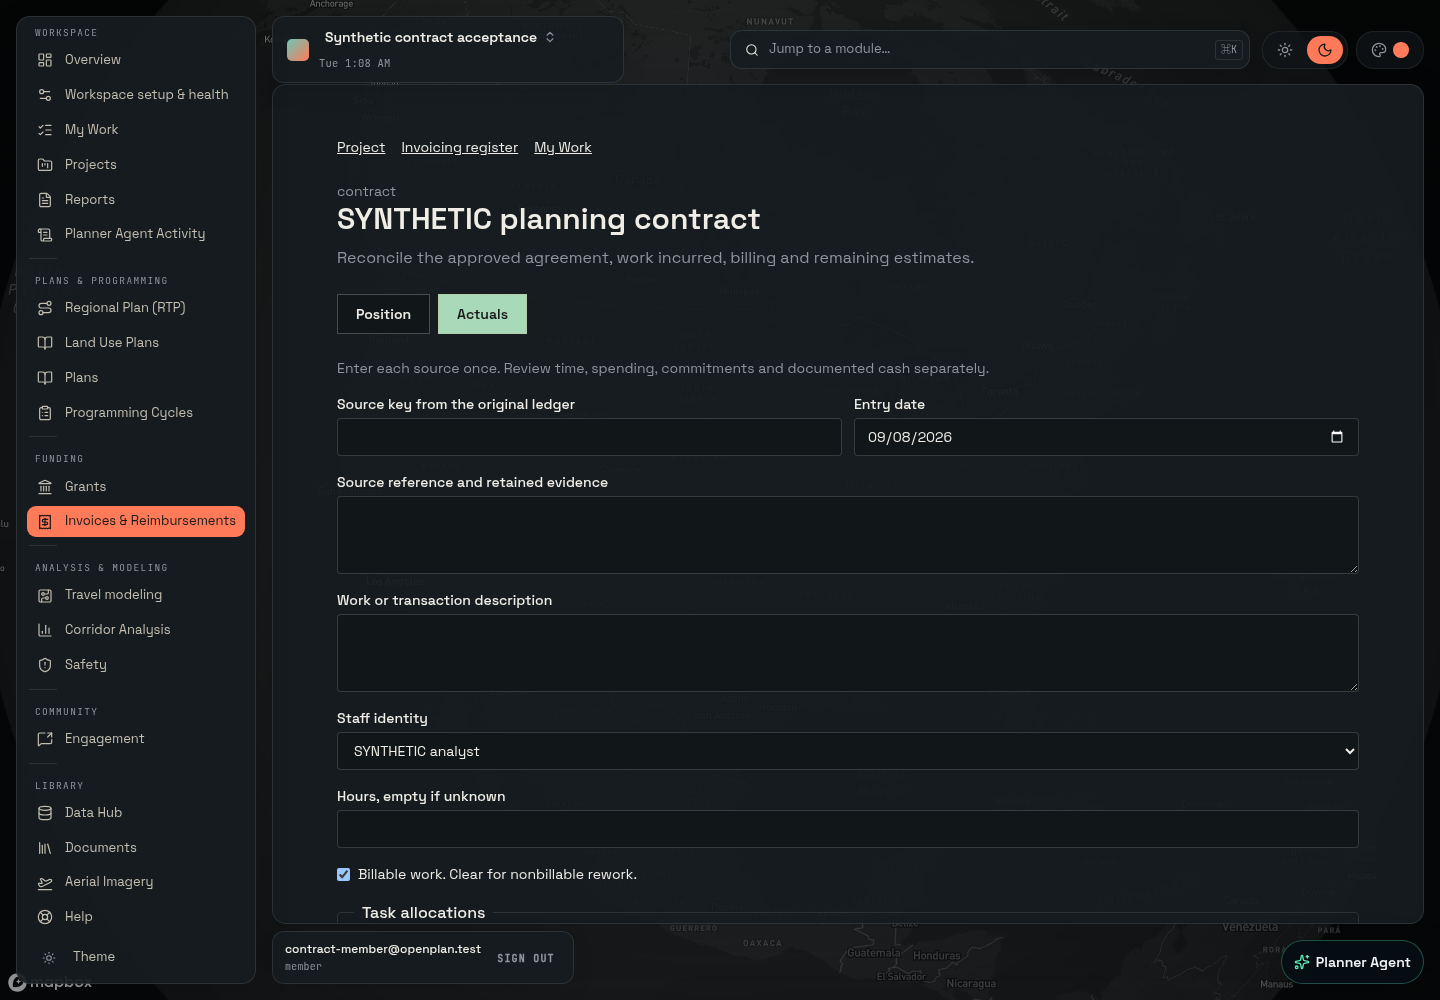
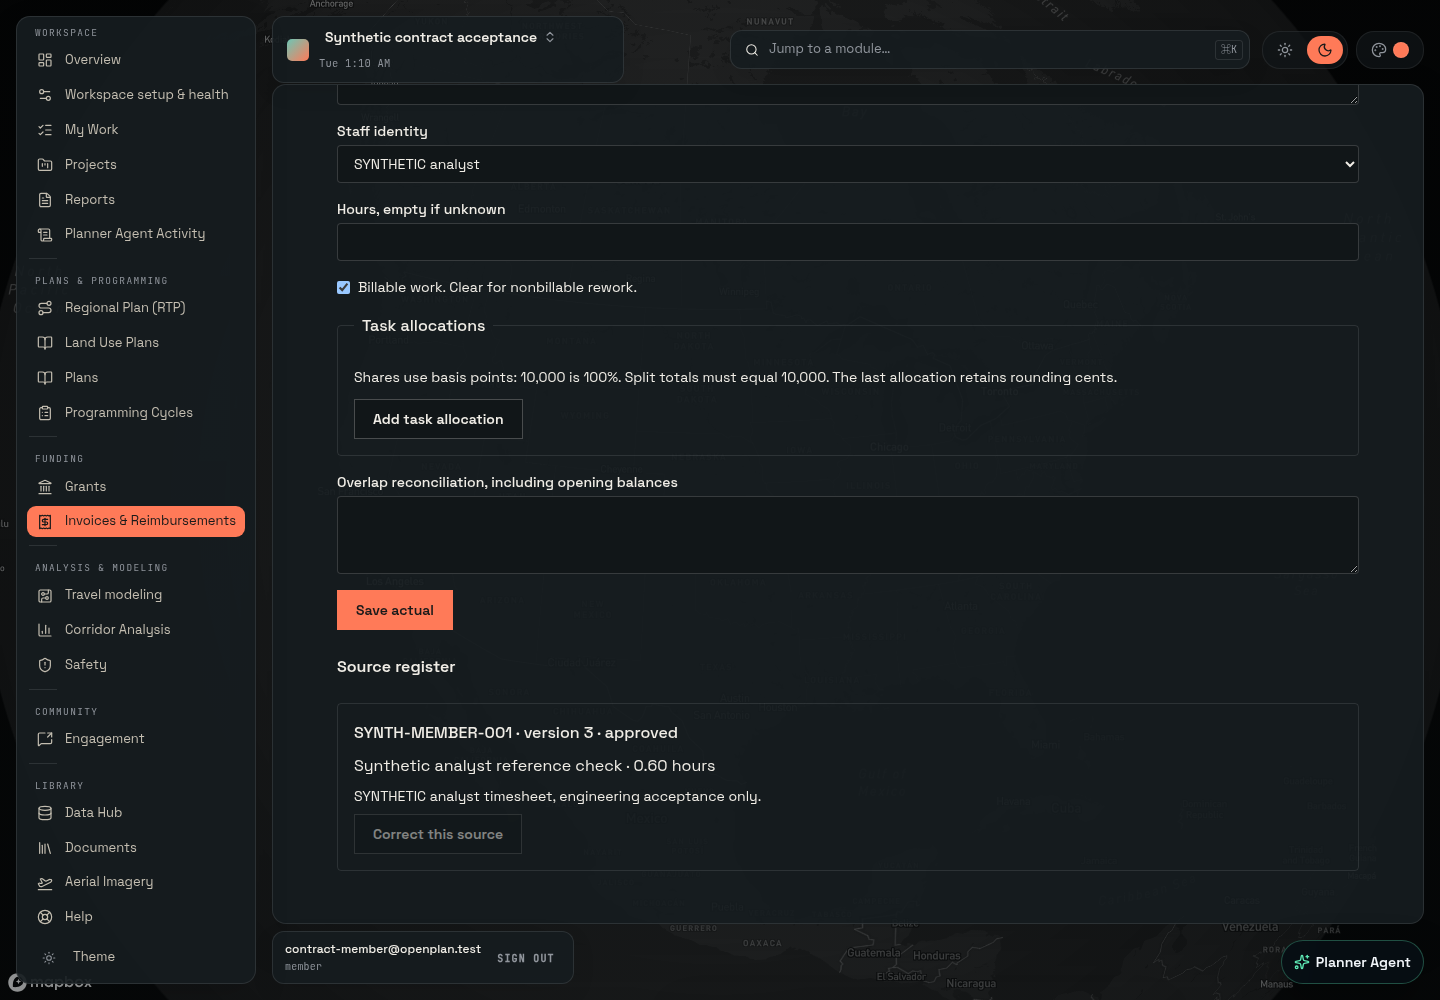
Correct backup receipt reference and member acceptance capture

diff --git a/docs/reviews/2026-09-07-contract-reconciliation/IMPLEMENTATION.md b/docs/reviews/2026-09-07-contract-reconciliation/IMPLEMENTATION.md
@@ -58,4 +58,4 @@ Final candidate QA first found release bookkeeping omissions: four current-relea
 
 Final current-source QA passed on 67345968: lint, deadcode, 13,293 tests, zero reported dependency vulnerabilities and webpack build. The fresh production owner/member journey passed at desktop and 390px. My Work navigation, keyboard tab activation, approved member read-only state, populated private report/download refusal and exact downloaded file comparisons passed. Fresh owner console and member page-error review were empty. Evidence and explicit blind categories are retained in VERIFICATION.md and evidence/production-browser.json.
 
-GitHub current-source RLS, restore drill and all three script/worker jobs passed; QA and shuffled test order are still running. Release/tag/demo remain pending. The main/demo database remains on v0.45. A private logical database backup is retained at ~/.local/state/openplan/backups/pre-v046-20260908/postgres.dump (SHA256 2c68d4916a75e1237ae9b86b7a4d681c56d5d3d1a7d77b8d82234d6e2cf70f); this is not a complete database-plus-storage restore point. The supported safe demo updater retains prior runtime/code/configuration separately during promotion.
+GitHub current-source RLS, restore drill and all three script/worker jobs passed; QA and shuffled test order are still running. Release/tag/demo remain pending. The main/demo database remains on v0.45. A private logical database backup is retained at ~/.local/state/openplan/backups/pre-v046-20260908/postgres.dump (SHA256 2c68d4916a75e1237ae9b86b7a4d681c56dcd5d3d1a7d77b8d82234d6e2cf70f); this is not a complete database-plus-storage restore point. The supported safe demo updater retains prior runtime/code/configuration separately during promotion.
